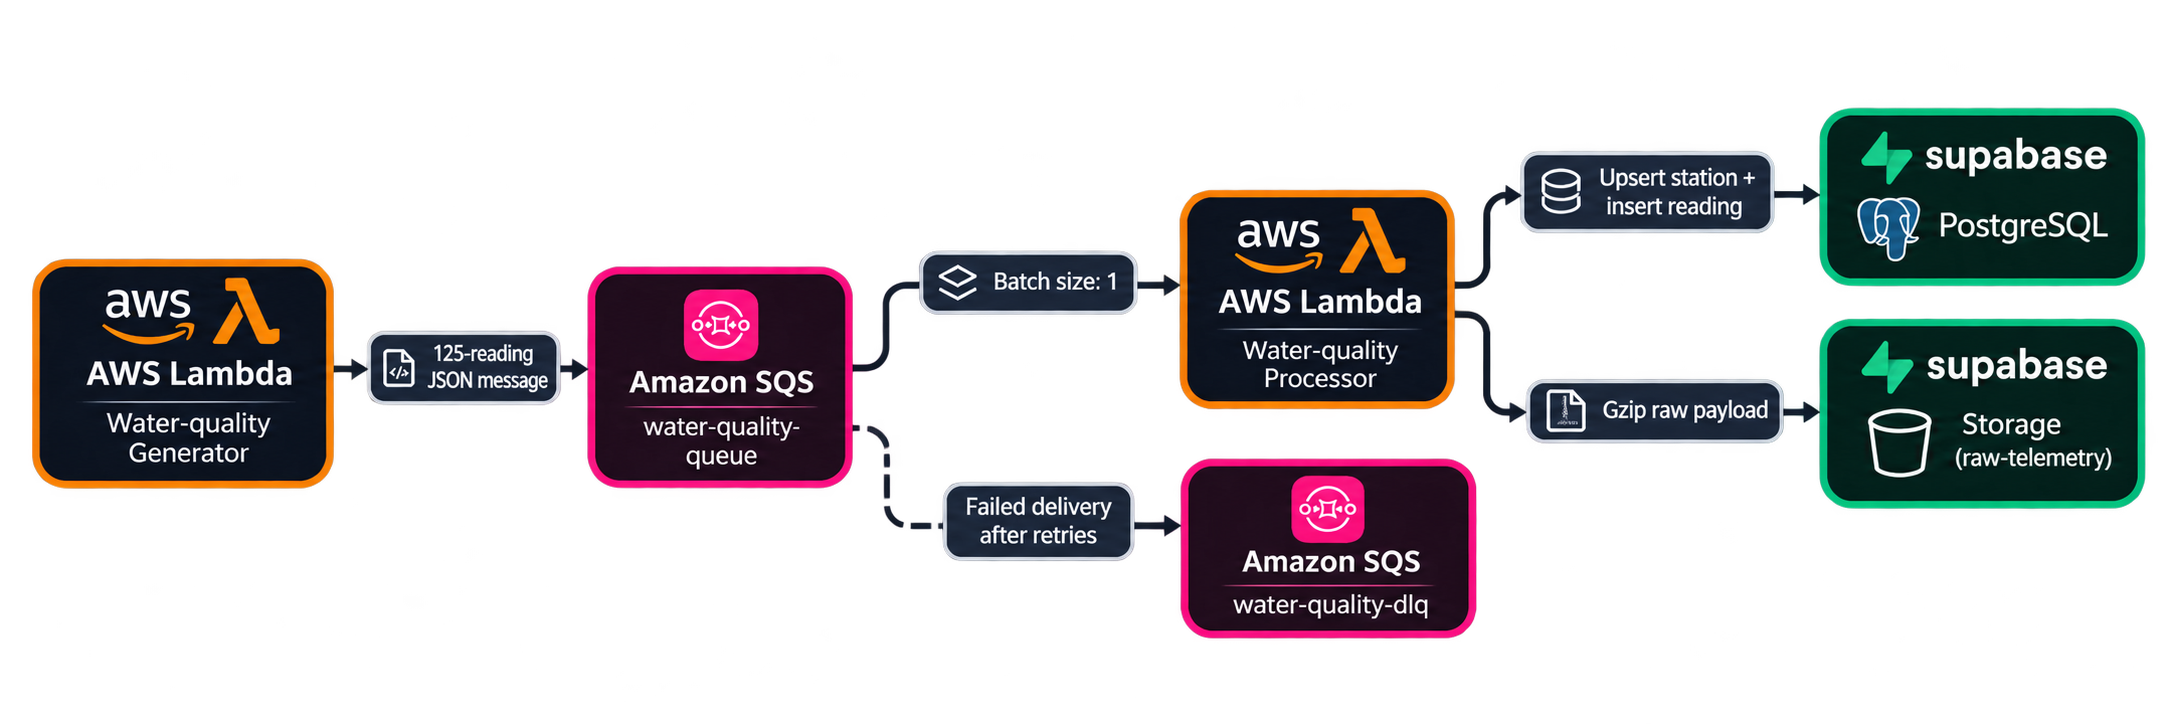
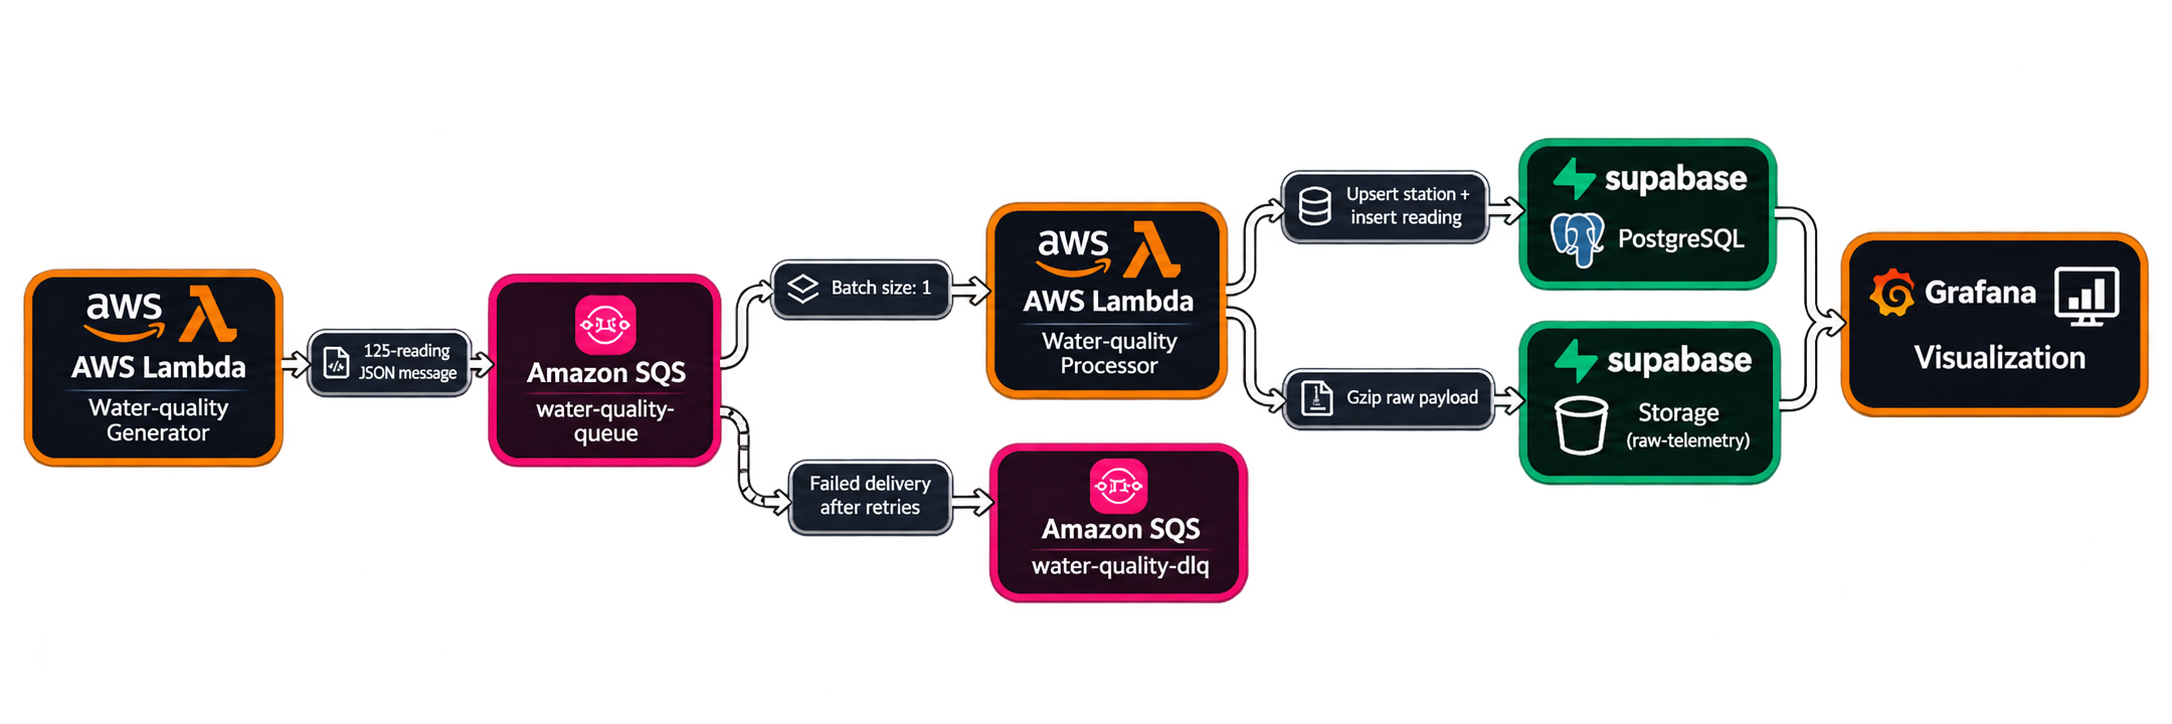
feat: dashboard added

diff --git a/README.md b/README.md
@@ -273,3 +273,5 @@ aws logs tail /aws/lambda/water-quality-storage-cleanup --region ap-south-1 --si
 - Added the daily Storage cleanup Lambda with five-day raw-data retention.
 - Added the `pg_cron` SQL job for five-day relational-data retention.
 - Added secret and generated-artifact exclusions to `.gitignore`.
+
+[Grafana Dashboard](https://sereneiris1223.grafana.net/public-dashboards/f9fb0a33a28f43ac878b03267ebce7d3)
